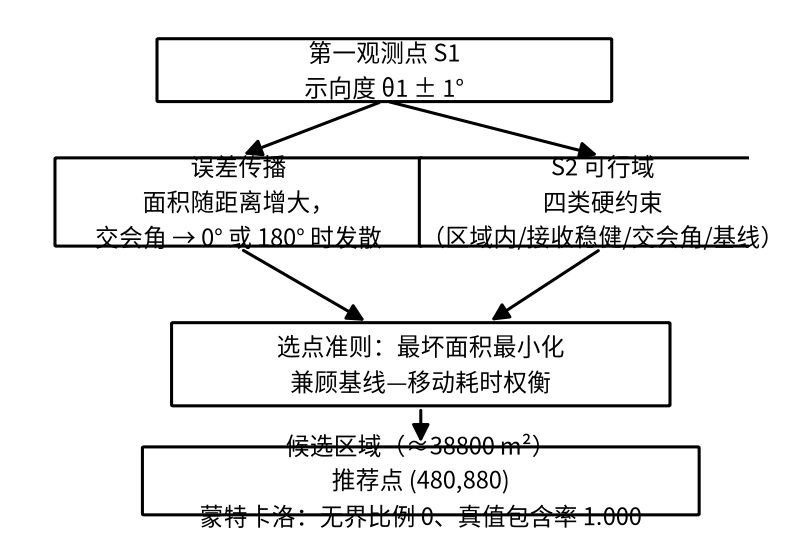
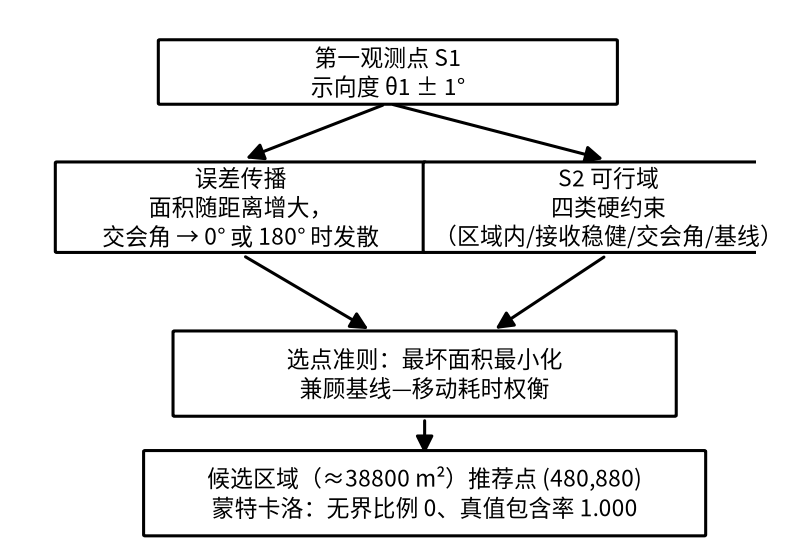
流程图可读性修正：全部5张图中文字体(Noto Sans CJK SC fallback SimHei)重排框高与行距，消除文字与框线叠压；补充图5-1/6-1/6-2/6-3/7-1/7-2正文引用（此前仅图注），13图全部实现'如图X-Y所示'引导

Changed region(s): [[0.0623, 0.2455, 0.9651, 0.9819], [0.1868, 0.0614, 0.7783, 0.2455]]

diff --git a/src/b_problem_analysis_flow.py b/src/b_problem_analysis_flow.py
@@ -38,11 +38,11 @@ print(f'流程图中文字体: {chosen}')
 OUT = '/home/opsuser/.hermes/profiles/instance2/work/cumcm-2026/figures'
 
 
-def box(ax, x, y, w, h, text, fs=8.5):
+def box(ax, x, y, w, h, text, fs=8.2):
     ax.add_patch(FancyBboxPatch((x - w / 2, y - h / 2), w, h,
                                 boxstyle="round,pad=0.02", fc="white",
                                 ec="black", lw=1.1))
-    ax.text(x, y, text, ha='center', va='center', fontsize=fs, linespacing=1.5)
+    ax.text(x, y, text, ha='center', va='center', fontsize=fs, linespacing=1.28)
 
 
 def arrow(ax, x1, y1, x2, y2):
@@ -59,16 +59,16 @@ def setup(ax):
 # ---------- 图 2-1 问题一 ----------
 fig, ax = plt.subplots(figsize=(4.2, 2.9), dpi=200)
 setup(ax)
-box(ax, 5.0, 9.0, 5.8, 1.2, '观测数据\n（检测点，示向度）\n误差 ±1°')
-box(ax, 2.5, 6.6, 4.8, 1.5, '可行域\n= 半平面交')
-box(ax, 7.5, 6.6, 4.8, 1.5, '凸包\n（极点集）')
+box(ax, 5.0, 9.1, 5.8, 1.6, '观测数据（检测点，示向度）\n误差 ±1°', fs=8)
+box(ax, 2.5, 6.9, 4.8, 1.5, '可行域\n= 半平面交')
+box(ax, 7.5, 6.9, 4.8, 1.5, '凸包\n（极点集）')
 box(ax, 2.5, 3.4, 5.0, 1.5, '直径 = 极点对最大距离\n（旋转卡壳，O(n log n)）')
 box(ax, 7.5, 3.4, 5.0, 1.5, '最小外接圆（Welzl）\nr_min ≤ d/√3（Jung 定理）')
 box(ax, 5.0, 0.9, 8.8, 1.3, '覆盖判定：以直径为直径的圆能否覆盖？\n一般不能（正三角形反例）')
-arrow(ax, 5, 8.4, 2.5, 7.35)
-arrow(ax, 5, 8.4, 7.5, 7.35)
-arrow(ax, 2.5, 5.85, 2.5, 4.15)
-arrow(ax, 7.5, 5.85, 7.5, 4.15)
+arrow(ax, 5, 8.3, 2.5, 7.65)
+arrow(ax, 5, 8.3, 7.5, 7.65)
+arrow(ax, 2.5, 6.15, 2.5, 4.15)
+arrow(ax, 7.5, 6.15, 7.5, 4.15)
 arrow(ax, 2.5, 2.65, 4.3, 1.55)
 arrow(ax, 7.5, 2.65, 5.8, 1.55)
 arrow(ax, 4.3, 1.55, 7.5, 2.35)  # 反例引回覆盖判定
@@ -83,7 +83,7 @@ box(ax, 5.0, 9.0, 6.2, 1.2, '第一观测点 S1\n示向度 θ1 ± 1°')
 box(ax, 3.0, 6.4, 5.0, 1.7, '误差传播\n面积随距离增大，\n交会角 → 0° 或 180° 时发散')
 box(ax, 8.0, 6.4, 5.0, 1.7, 'S2 可行域\n四类硬约束\n（区域内/接收稳健/交会角/基线）')
 box(ax, 5.5, 3.2, 6.8, 1.6, '选点准则：最坏面积最小化\n兼顾基线—移动耗时权衡')
-box(ax, 5.5, 0.9, 7.6, 1.3, '候选区域（≈38800 m²）\n推荐点 (480,880)\n蒙特卡洛：无界比例 0、真值包含率 1.000')
+box(ax, 5.5, 0.9, 7.6, 1.6, '候选区域（≈38800 m²）推荐点 (480,880)\n蒙特卡洛：无界比例 0、真值包含率 1.000')
 arrow(ax, 5, 8.4, 3, 7.3)
 arrow(ax, 5, 8.4, 8, 7.3)
 arrow(ax, 3, 5.5, 4.8, 4.0)
@@ -115,18 +115,18 @@ plt.close(fig)
 # ---------- 图 2-4 问题四 ----------
 fig, ax = plt.subplots(figsize=(4.2, 3.0), dpi=200)
 setup(ax)
-box(ax, 5.0, 9.2, 6.8, 1.2, '问题四：问题三 + 定向源\n仅 90° 半扇区可见\n方向未知')
-box(ax, 2.6, 6.6, 4.8, 1.7, '双环布局\n内环 1000 m×7\n外环 1870 m×12（旋转 15°）')
-box(ax, 7.6, 6.6, 4.8, 1.7, '外环半径几何下界\nRo ≥ RA/cos(π/12)\n≈ 1863.5 m，留 6.5 m 余量')
-box(ax, 3.0, 3.6, 5.2, 1.7, '站位与目标联合巡回\n开放路径 TSP\n最近邻 + 2-opt')
-box(ax, 7.8, 3.6, 4.8, 1.7, '外环方位采样\n对朝外辐射源\n多角度观测')
+box(ax, 5.0, 9.2, 6.8, 1.6, '问题四：问题三 + 定向源\n仅 90° 半扇区可见，方向未知')
+box(ax, 2.6, 6.7, 4.8, 1.7, '双环布局\n内环 1000 m×7\n外环 1870 m×12（旋转 15°）')
+box(ax, 7.6, 6.7, 4.8, 1.7, '外环半径几何下界\nRo ≥ RA/cos(π/12)\n≈ 1863.5 m，留 6.5 m 余量')
+box(ax, 3.0, 3.5, 5.2, 1.7, '站位与目标联合巡回\n开放路径 TSP\n最近邻 + 2-opt')
+box(ax, 7.8, 3.5, 4.8, 1.7, '外环方位采样\n对朝外辐射源\n多角度观测')
 box(ax, 5.0, 0.9, 6.8, 1.3, '沉默 ≠ 空（定向源）\n不提前判空；清除预算护栏')
-arrow(ax, 5, 8.6, 2.6, 7.4)
-arrow(ax, 5, 8.6, 7.6, 7.4)
-arrow(ax, 2.6, 5.75, 3.0, 4.45)
-arrow(ax, 7.6, 5.75, 7.6, 4.45)
-arrow(ax, 3.0, 2.75, 4.5, 1.55)
-arrow(ax, 7.8, 2.75, 5.5, 1.55)
+arrow(ax, 5, 8.4, 2.6, 7.5)
+arrow(ax, 5, 8.4, 7.6, 7.5)
+arrow(ax, 2.6, 5.85, 3.0, 4.35)
+arrow(ax, 7.6, 5.85, 7.6, 4.35)
+arrow(ax, 3.0, 2.65, 4.5, 1.55)
+arrow(ax, 7.8, 2.65, 5.5, 1.55)
 fig.tight_layout()
 fig.savefig(f'{OUT}/b_flow_q4.png', bbox_inches='tight')
 plt.close(fig)
